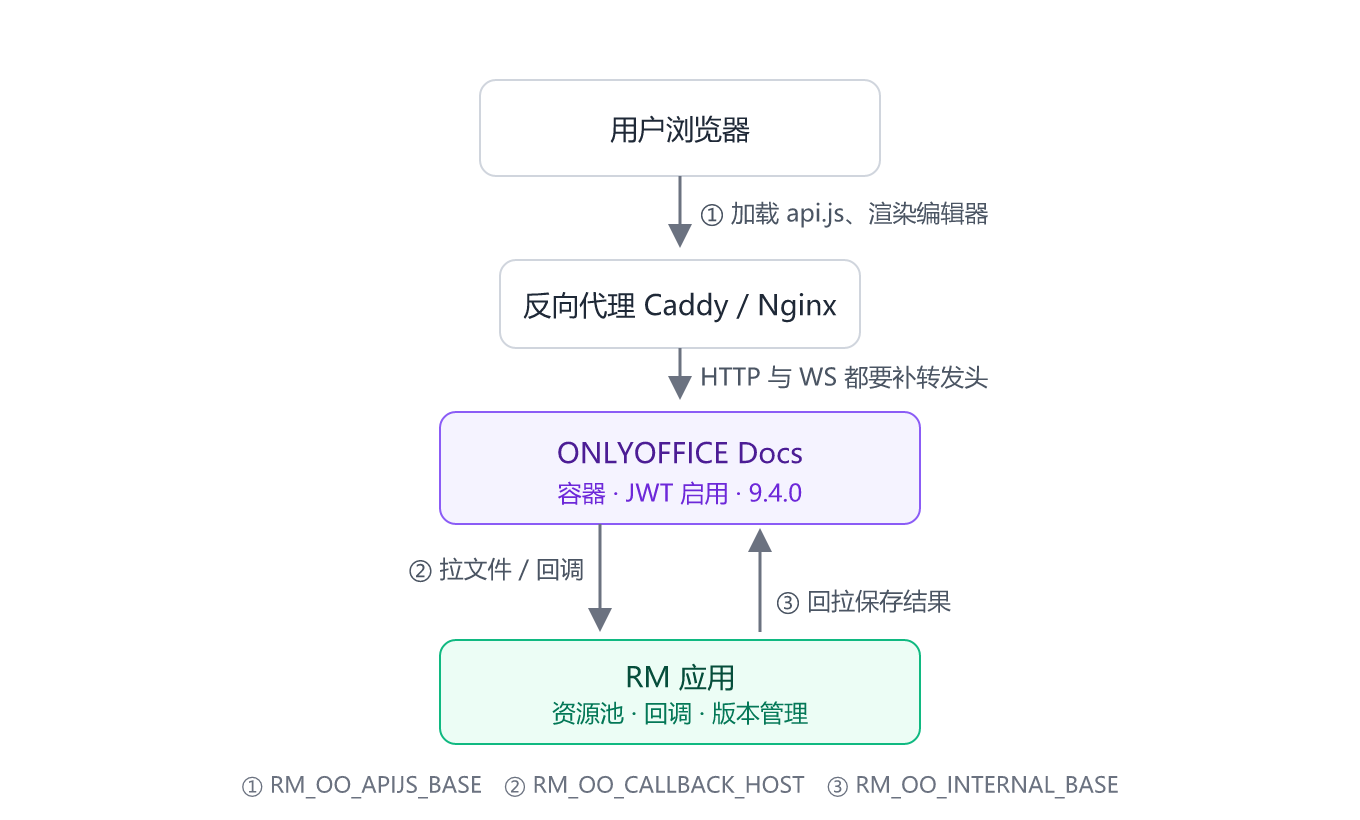
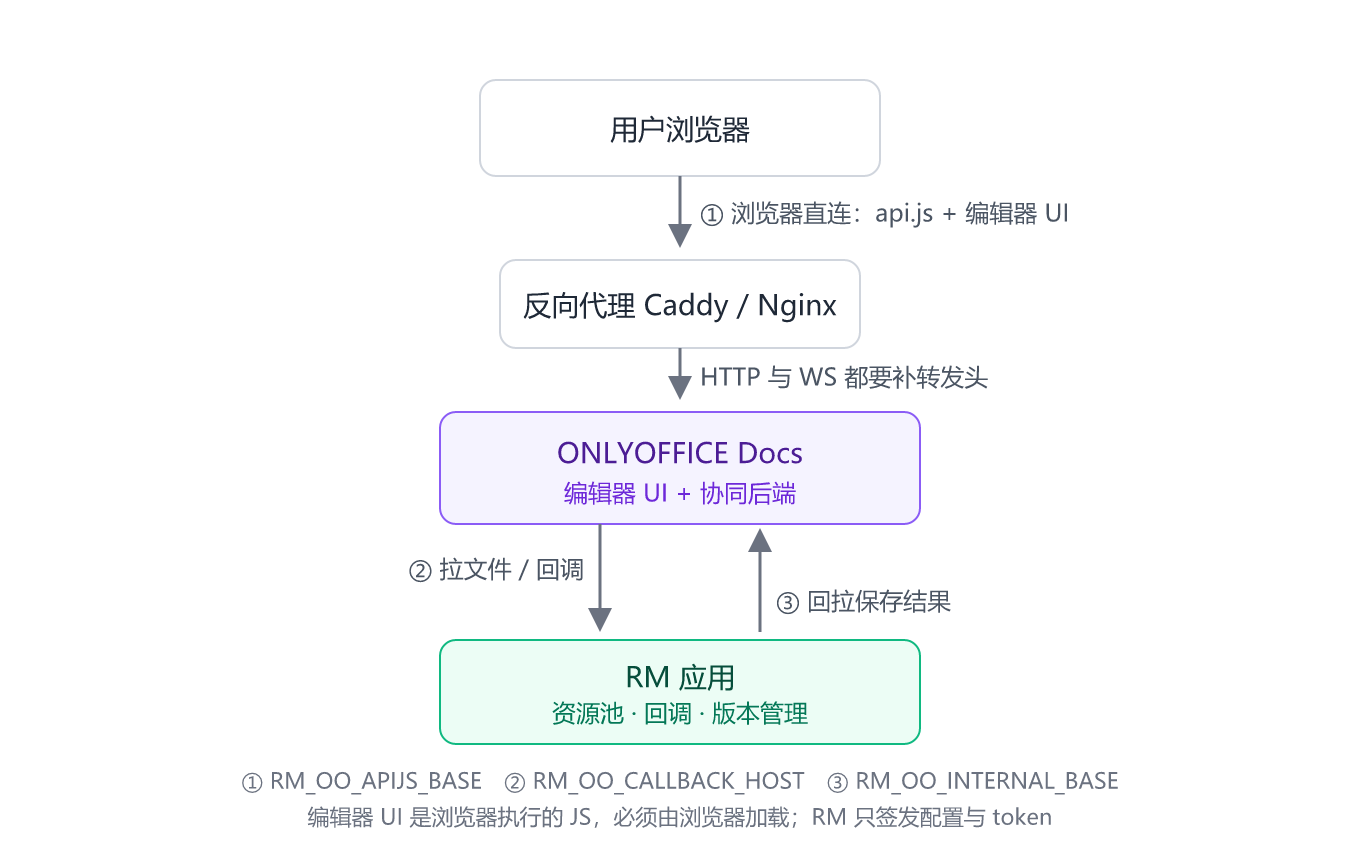
docs(onlyoffice): 正面回答「能否让浏览器不直连文档服务」，并强化图中该事实
读者（含作者本人）容易产生一个直觉：文档服务只是内网后端，浏览器应该只连 RM。
这个直觉对了一半，但漏掉关键事实——ONLYOFFICE 的编辑器不是服务端渲染的页面，
而是一套跑在浏览器里的 JS 应用：api.js 往宿主页面挂一个 iframe，编辑器界面、
协作连接、字体渲染都在浏览器里执行（见 app.py 编辑页的 <script src=...> 与
api.js 的 div→iframe 替换行为）。资源必须由浏览器直接从文档服务加载，
少这一层就是白屏。这是「三个入口」中 ① 不可消除的原因。

- 正文 4 节补一段：省不掉入口，但可以省掉独立域名（挂同一网关反代收口，
  用户只见一个域名，流量方向不变）。
- 架构图同步：文档服务副标题由「容器 · JWT 启用 · 9.4.0」改为
  「编辑器 UI + 协同后端」；① 标注改为「浏览器直连：api.js + 编辑器 UI」；
  图注新增一行「编辑器 UI 是浏览器执行的 JS，必须由浏览器加载；RM 只签发
  配置与 token」。版本号仍保留在部署命令里。

diff --git a/docs/ONLYOFFICE在线编辑接入与开源许可.md b/docs/ONLYOFFICE在线编辑接入与开源许可.md
@@ -127,6 +127,12 @@ AGPLv3 第 7 条允许在原许可上追加少量限制。ONLYOFFICE 在 9.4 里
 - 方向 ② 必须是文档服务容器能访问到宿主的地址。填 `127.0.0.1`，指的是容器自己。
 - 方向 ③ 是反过来的：宿主回拉容器，需要一个只绑在本机的端口。
 
+有人会问：文档服务反正跑在内网，能不能让浏览器只连 RM，由 RM 代为加载编辑器？
+
+省不掉。ONLYOFFICE 的编辑器不是服务端渲染好的页面，而是一套跑在浏览器里的 JS 应用：`api.js` 往你的页面里挂一个 `<iframe>`，编辑器界面、协作连接、字体渲染全在浏览器里执行。这些资源必须由浏览器直接从文档服务加载，中间少一层就只能白屏。
+
+能省掉的是独立域名：把文档服务挂到同一个网关下，用反代收口。用户只看到一个域名，但流量方向仍是浏览器到文档服务，拓扑不变。
+
 实践中三条配置长这样（占位符）：
 
 ```
